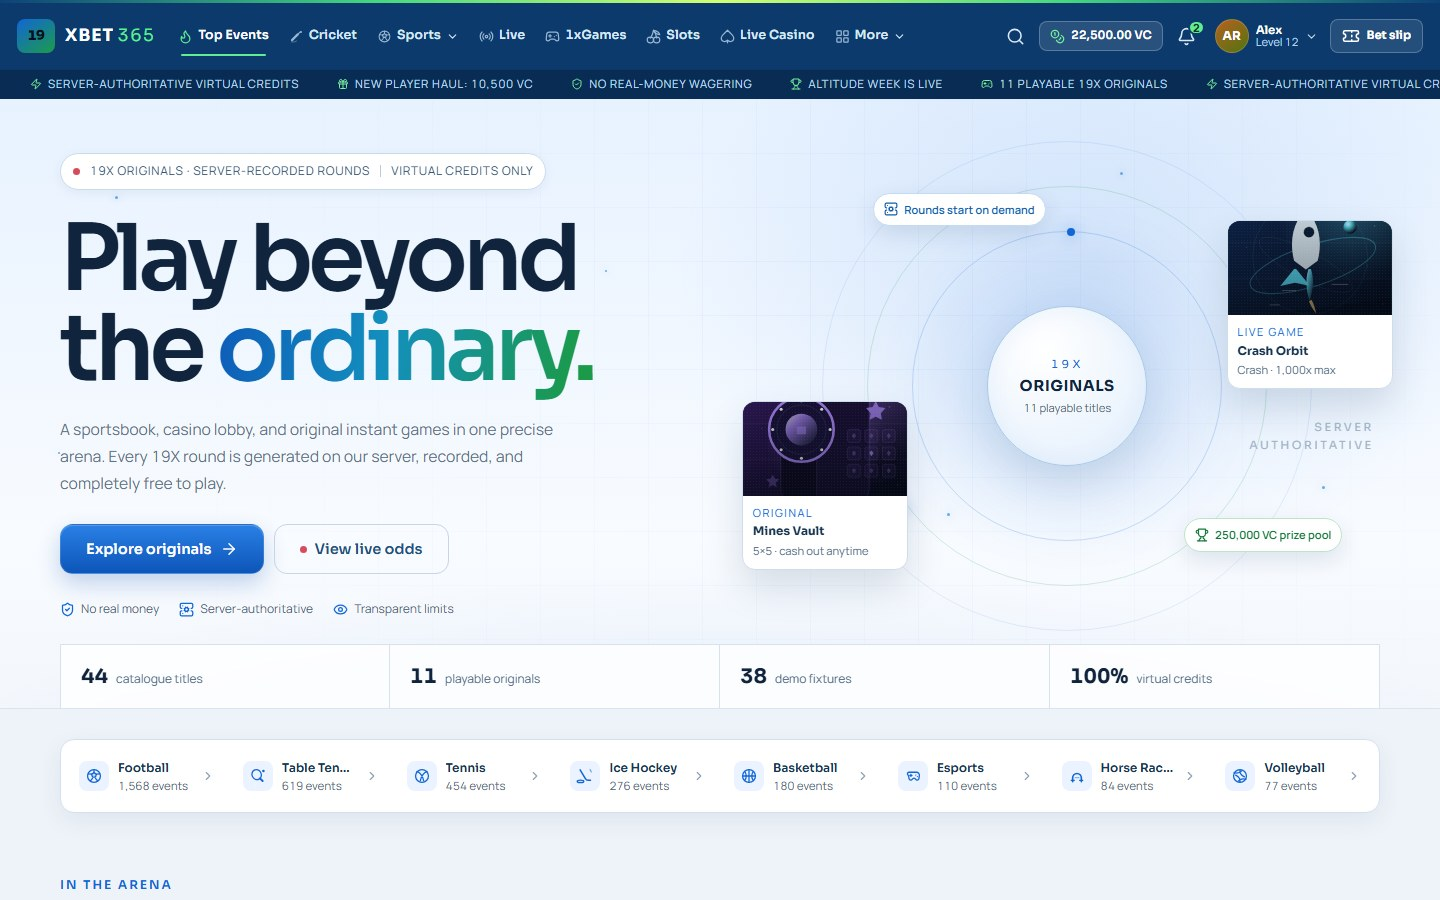
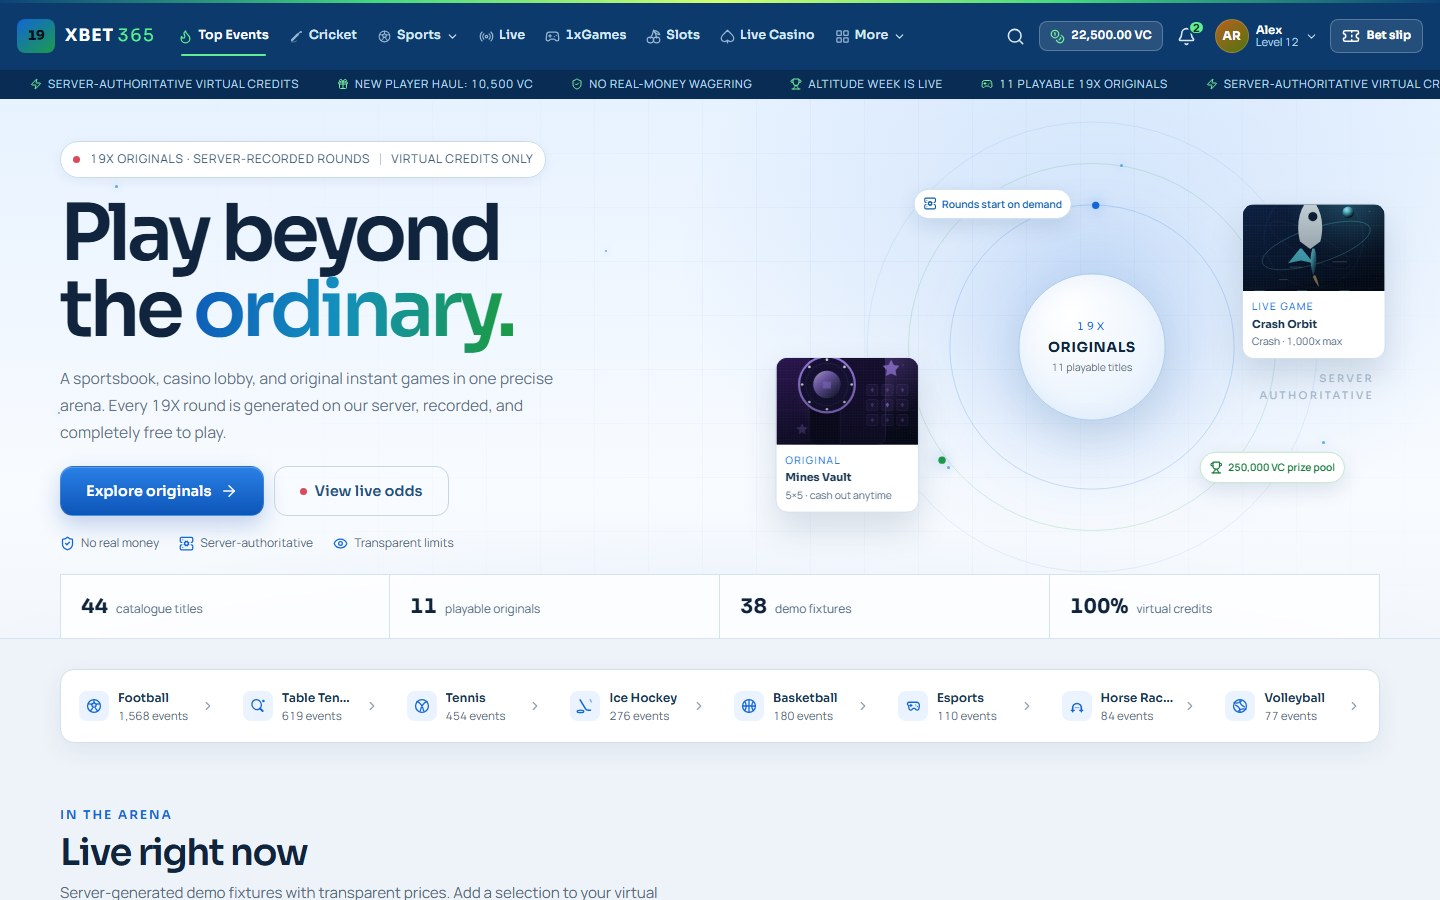
Refine first-view UX, page titles and account navigation
Brings live sports closer to the first viewport, adds per-route document titles, auto-scrolls mobile account tabs into view, localises deposit amounts to coins, and fixes the deposit heading hierarchy. Refreshes UX evidence and screenshots.

diff --git a/frontend/src/pages/account/Deposit.tsx b/frontend/src/pages/account/Deposit.tsx
@@ -7,7 +7,11 @@ import type { DepositConfig, DepositRequest } from "../../types";
 import { useAuth } from "../../state/AuthContext";
 import { useToast } from "../../state/ToastContext";
 import { Badge, Button, EmptyState, ErrorState, Field, Input, Skeleton, Textarea } from "../../components/UI";
-import { dateTime, vc } from "../../lib/format";
+import { dateTime } from "../../lib/format";
+
+function coins(value: number) {
+  return `${Number(value || 0).toLocaleString("en-GB", { minimumFractionDigits: 2, maximumFractionDigits: 2 })} coins`;
+}
 
 const STATUS_TONE: Record<string, "lime" | "amber" | "coral" | "outline"> = {
   approved: "lime",
@@ -100,12 +104,12 @@ export function AccountDeposit() {
       <div className="deposit-hero">
         <div>
           <span className="eyebrow"><ArrowDownToLine size={13} /> Coin deposit</span>
-          <h1>Add coins to your account</h1>
-          <p>Scan the payment QR, submit the transfer reference, and a reviewer will verify it before coins are credited. Current balance: <strong>{vc(user?.balance || 0)}</strong>.</p>
+          <h2>Add coins to your account</h2>
+          <p>Scan the payment QR, submit the transfer reference, and a reviewer will verify it before coins are credited. Current balance: <strong>{coins(user?.balance || 0)}</strong>.</p>
         </div>
         <div className="deposit-balance">
           <span>Available coins</span>
-          <strong>{vc(user?.balance || 0)}</strong>
+          <strong>{coins(user?.balance || 0)}</strong>
           <Badge tone={config.mode === "sandbox" ? "amber" : "outline"}>{config.mode === "sandbox" ? "Sandbox verification" : "Manual review"}</Badge>
         </div>
       </div>
@@ -142,7 +146,7 @@ export function AccountDeposit() {
             <span className="eyebrow">Deposit bonus</span>
             {config.tiers.map((tier) => (
               <div key={tier.min} className={selectedTier?.min === tier.min ? "active" : ""}>
-                <span>Deposit {vc(tier.min, { compact: true })} or more</span>
+                <span>Deposit {coins(tier.min)} or more</span>
                 <strong>{tier.percent}% bonus</strong>
               </div>
             ))}
@@ -158,7 +162,7 @@ export function AccountDeposit() {
             </Field>
             <div className="deposit-preview">
               <span>Estimated bonus</span>
-              <strong>{vc(previewBonus)}</strong>
+              <strong>{coins(previewBonus)}</strong>
               <small>{selectedTier ? `${selectedTier.percent}% tier` : "No tier reached"}</small>
             </div>
             <Field label="Payment reference / UTR" required hint="The reference shown in your payment app after transfer.">
@@ -182,11 +186,11 @@ export function AccountDeposit() {
             {deposits.map((deposit) => (
               <div className="deposit-row" key={deposit.id}>
                 <div>
-                  <strong>{vc(deposit.amount)}</strong>
+                  <strong>{coins(deposit.amount)}</strong>
                   <span>Ref {deposit.reference} · {dateTime(deposit.createdAt)}</span>
                 </div>
                 <div>
-                  {deposit.bonusAmount > 0 && <span className="deposit-bonus">+{vc(deposit.bonusAmount)} bonus</span>}
+                  {deposit.bonusAmount > 0 && <span className="deposit-bonus">+{coins(deposit.bonusAmount)} bonus</span>}
                   <Badge tone={STATUS_TONE[deposit.status] || "outline"}>{deposit.status}</Badge>
                   {deposit.status === "pending" && <button className="text-btn" onClick={() => cancel(deposit.id)}>Cancel</button>}
                 </div>

diff --git a/frontend/src/styles/bookmaker.css b/frontend/src/styles/bookmaker.css
@@ -279,7 +279,16 @@
 .bookmaker .compact-hero .page-hero-inner { padding-top: 38px; padding-bottom: 30px; }
 
 /* Home */
-.bookmaker .hero { background: radial-gradient(700px 500px at 76% 28%, rgba(18,102,214,.12), transparent 60%), linear-gradient(180deg, #e7f2ff, #f8fbff 72%, #f3f7fc); border-color: #d8e4f0; }
+.bookmaker .hero { min-height: 540px; background: radial-gradient(700px 500px at 76% 28%, rgba(18,102,214,.12), transparent 60%), linear-gradient(180deg, #e7f2ff, #f8fbff 72%, #f3f7fc); border-color: #d8e4f0; }
+.bookmaker .hero-inner { min-height: 496px; padding-top: 42px; padding-bottom: 78px; }
+.bookmaker .hero-copy h1 { margin-top: 18px; font-size: clamp(3.1rem, 5.6vw, 4.9rem); }
+.bookmaker .hero-lede { margin-top: 16px; }
+.bookmaker .hero-actions { margin-top: 21px; }
+.bookmaker .hero-trust { margin-top: 18px; }
+.bookmaker .hero-stage { height: 410px; transform: scale(.92); transform-origin: center right; }
+.bookmaker .floating-card { width: 156px; }
+.bookmaker .float-mines { left: -5%; bottom: 6%; }
+.bookmaker .float-crash { right: -1%; top: 12%; }
 .bookmaker .hero-bg::before { background-image: linear-gradient(rgba(18,102,214,.045) 1px, transparent 1px), linear-gradient(90deg, rgba(18,102,214,.045) 1px, transparent 1px); }
 .bookmaker .hero-bg::after { background: radial-gradient(ellipse at center, rgba(18,102,214,.08), transparent 65%); }
 .bookmaker .hero-star { background: #69a9e8; box-shadow: 0 0 8px rgba(18,102,214,.4); }
@@ -632,7 +641,7 @@
 .bookmaker .deposit-page > *, .bookmaker .deposit-grid > * { min-width: 0; }
 .bookmaker .deposit-form .input, .bookmaker .deposit-form .textarea { min-width: 0; width: 100%; }
 .bookmaker .deposit-hero { display: flex; align-items: flex-end; justify-content: space-between; gap: 22px; }
-.bookmaker .deposit-hero h1 { margin: 5px 0 8px; font-size: clamp(1.8rem, 3.2vw, 2.6rem); }
+.bookmaker .deposit-hero h2 { margin: 5px 0 8px; font-size: clamp(1.8rem, 3.2vw, 2.6rem); line-height: 1.1; }
 .bookmaker .deposit-hero p { max-width: 640px; color: #526a82; font-size: .88rem; line-height: 1.65; }
 .bookmaker .deposit-balance { min-width: 210px; padding: 16px 18px; border: 1px solid #d7e2ee; border-radius: 12px; background: #fff; display: grid; gap: 4px; }
 .bookmaker .deposit-balance > span { color: #526a82; font-size: .72rem; }
@@ -817,6 +826,9 @@
 }
 @media (max-width: 900px) {
   .bookmaker .header-shell { width: calc(100% - 20px); }
+  .bookmaker .hero { min-height: 0; }
+  .bookmaker .hero-inner { min-height: 0; }
+  .bookmaker .hero-stage { height: auto; transform: none; }
 }
 @media (max-width: 760px) {
   .bookmaker .page-hero-inner { flex-direction: column; align-items: stretch; gap: 16px; }

diff --git a/frontend/src/components/PageTitle.tsx b/frontend/src/components/PageTitle.tsx
@@ -1,0 +1,69 @@
+import { useEffect } from "react";
+import { useLocation } from "react-router-dom";
+import { useData } from "../state/DataContext";
+
+const TITLES: Record<string, string> = {
+  "/": "Sportsbook & casino",
+  "/sports": "Sportsbook",
+  "/live": "Live betting",
+  "/esports": "Esports",
+  "/virtuals": "Virtual sports",
+  "/casino": "Casino lobby",
+  "/instant": "Instant games",
+  "/slots": "Slots",
+  "/live-casino": "Live casino",
+  "/promotions": "Promotions",
+  "/tournaments": "Tournaments",
+  "/search": "Search",
+  "/help": "Help centre",
+  "/support": "Support",
+  "/about": "About",
+  "/terms": "Terms",
+  "/privacy": "Privacy",
+  "/responsible-gaming": "Responsible gaming",
+  "/bonus-terms": "Bonus terms",
+  "/cookies": "Cookies",
+  "/aml": "AML & KYC",
+  "/affiliates": "Affiliates",
+  "/login": "Sign in",
+  "/register": "Create account",
+  "/forgot-password": "Account recovery",
+  "/account": "Player dashboard",
+  "/account/profile": "Profile",
+  "/account/wallet": "Coin wallet",
+  "/account/deposit": "Add coins",
+  "/account/bets": "My bets",
+  "/account/activity": "Game activity",
+  "/account/notifications": "Notifications",
+  "/account/security": "Security",
+  "/account/referrals": "Referrals",
+  "/account/responsible": "Responsible gaming",
+  "/admin": "Control room",
+  "/admin/network": "Network hierarchy",
+  "/admin/accounts": "Accounts",
+  "/admin/deposits": "Deposit review",
+  "/admin/games": "Game catalogue",
+  "/admin/content": "Content & promos",
+  "/admin/credits": "Credit activity",
+  "/admin/support": "Support desk",
+  "/admin/transfers": "Transfers",
+  "/admin/security": "Security centre",
+  "/admin/audit": "Audit trail",
+  "/admin/settings": "Configuration",
+  "/admin/system": "System health"
+};
+
+export function PageTitle() {
+  const { pathname } = useLocation();
+  const { gamesById } = useData();
+  useEffect(() => {
+    const gameName = pathname.startsWith("/game/") ? gamesById.get(pathname.slice("/game/".length))?.name : null;
+    const base = gameName
+      || TITLES[pathname]
+      || (pathname.startsWith("/help/") ? "Help centre" : null)
+      || (pathname.startsWith("/game/") ? "Game" : null)
+      || (pathname.startsWith("/admin") ? "Control room" : "Page");
+    document.title = `${base} · 19xbet365`;
+  }, [pathname, gamesById]);
+  return null;
+}

diff --git a/frontend/src/pages/account/AccountLayout.tsx b/frontend/src/pages/account/AccountLayout.tsx
@@ -1,4 +1,5 @@
-import { NavLink, Outlet, Link } from "react-router-dom";
+import { useEffect, useRef } from "react";
+import { NavLink, Outlet, Link, useLocation } from "react-router-dom";
 import {
   Activity, ArrowDownToLine, Bell, ChevronRight, Coins, HeartHandshake, ShieldCheck, Ticket, UserRound,
   WalletCards, Users, ArrowRight, Sparkles
@@ -24,6 +25,12 @@ const LINKS = [
 export function AccountLayout() {
   const { user } = useAuth();
   const { unreadCount } = useData();
+  const location = useLocation();
+  const navRef = useRef<HTMLDivElement>(null);
+  useEffect(() => {
+    const active = navRef.current?.querySelector<HTMLElement>(".account-nav-link.active");
+    active?.scrollIntoView({ inline: "center", block: "nearest" });
+  }, [location.pathname, user?.id]);
   if (!user) return null;
   const progress = Math.min(100, Math.round(((user.xp % 2400) / 2400) * 100));
 
@@ -58,7 +65,7 @@ export function AccountLayout() {
       </div>
       <div className="page-shell account-shell">
         <aside className="account-nav">
-          <div className="account-nav-card">
+          <div className="account-nav-card" ref={navRef} role="navigation" aria-label="Account sections">
             {LINKS.map((link) => (
               <NavLink key={link.to} to={link.to} end={link.end} className={({ isActive }) => classNames("account-nav-link", isActive && "active")}>
                 <link.icon size={16} />

diff --git a/frontend/src/App.tsx b/frontend/src/App.tsx
@@ -1,6 +1,7 @@
 import { Outlet, Route, Routes } from "react-router-dom";
 import { Header, Footer } from "./components/Layout";
 import { RequireAuth, RequireStaff, ScrollToTop } from "./components/ProtectedRoute";
+import { PageTitle } from "./components/PageTitle";
 import { Home } from "./pages/Home";
 import { SportsPage, LiveSports, Esports, VirtualSports } from "./pages/Sports";
 import { Casino, LiveCasino, Slots, InstantGames } from "./pages/Casino";
@@ -53,6 +54,7 @@ function PublicLayout() {
 export default function App() {
   return (
     <>
+      <PageTitle />
       <ScrollToTop />
       <Routes>
         <Route path="/login" element={<Login />} />

diff --git a/docs/UI_UX_AUDIT.md b/docs/UI_UX_AUDIT.md
@@ -50,6 +50,13 @@ The reference is attractive because it is **predictable**, not because it is lar
 - Team badges and provider marks give dense rows a stable visual anchor.
 - Header density was rebalanced at 1181–1400px: tighter nav padding, hidden duplicate balance chip, locale hidden below 1440px.
 
+### Frustration-reduction details
+- Compacted the home hero so the **Live right now** heading is visible in the first desktop viewport, while keeping the brand artwork; mobile retains its stacked hero.
+- Added unique document titles for every route, including the selected game name, so browser tabs, history, bookmarks and screen readers have context.
+- Mobile account tabs auto-scroll the active section into view when navigating between Wallet, Add coins, Bets and other sections.
+- Low-balance states now offer a direct **Add coins** action in both the bet slip and the game page instead of only returning an error.
+- Deposit configuration is explicit: missing QR, sandbox mode, manual review and the live-payment gate are all stated in context rather than leaving disabled controls unexplained.
+
 ### Interaction and accessibility
 - Bet slip, mobile drawer and generic modals now use a shared dialog helper:
   - Escape closes.
